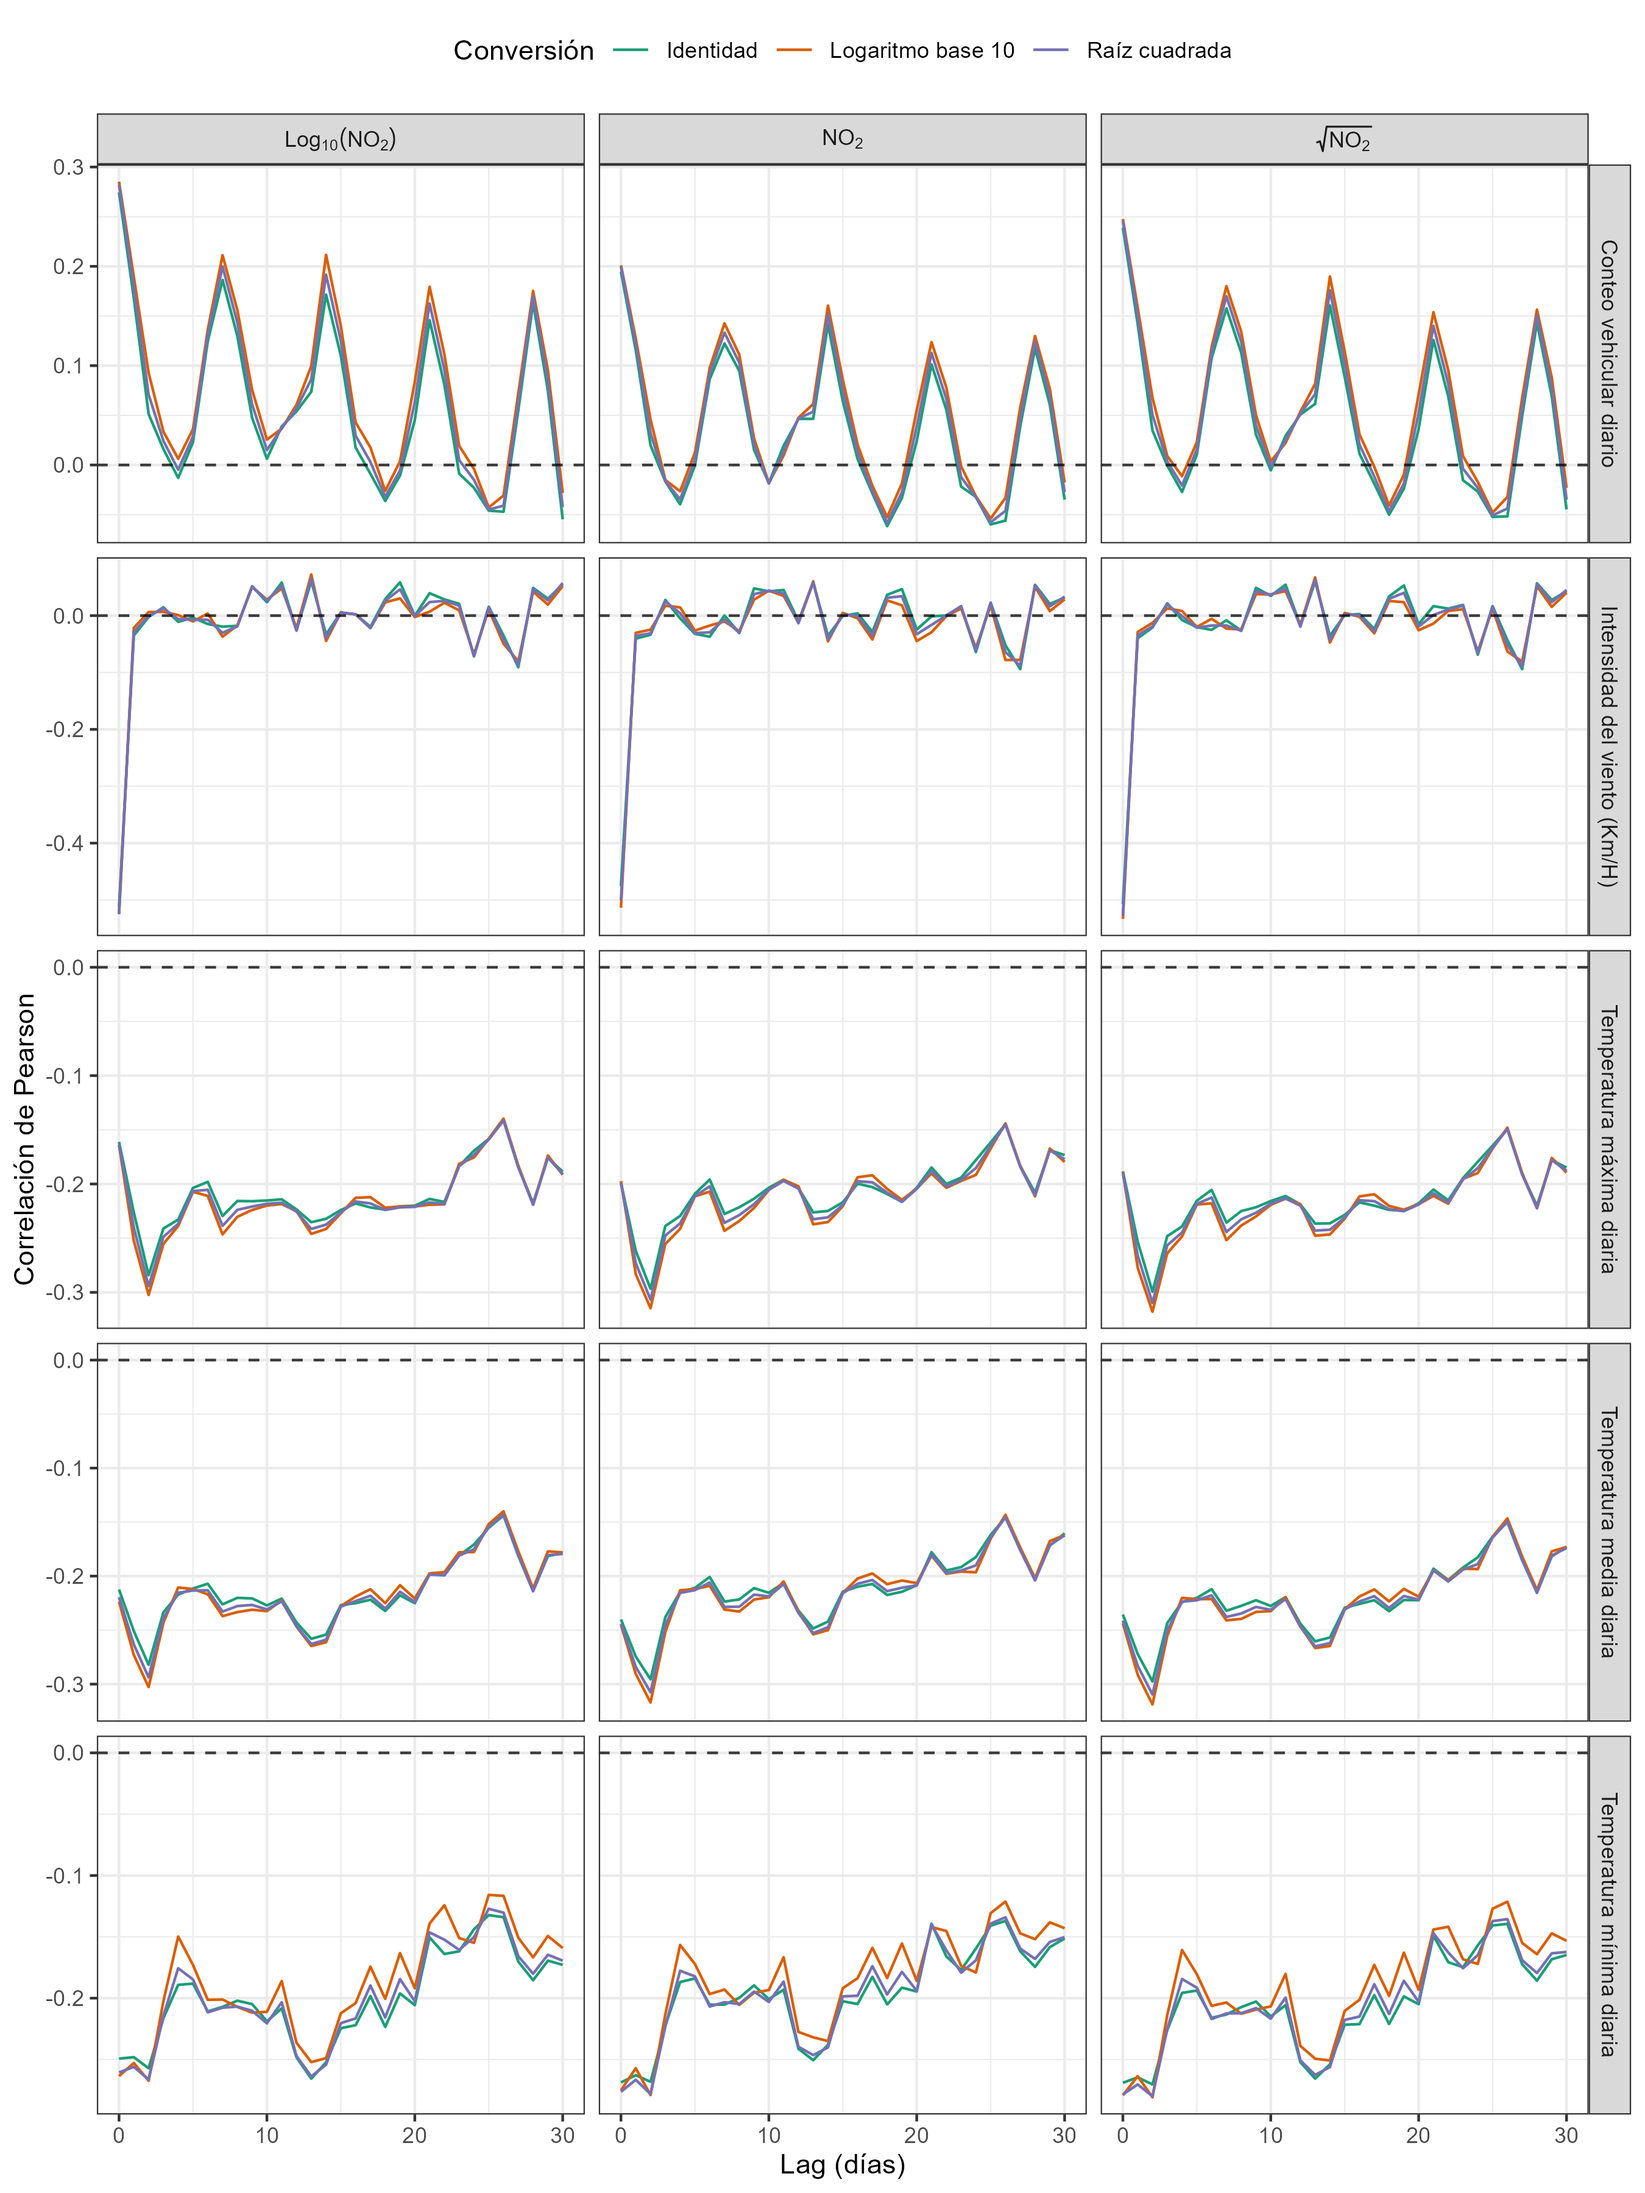
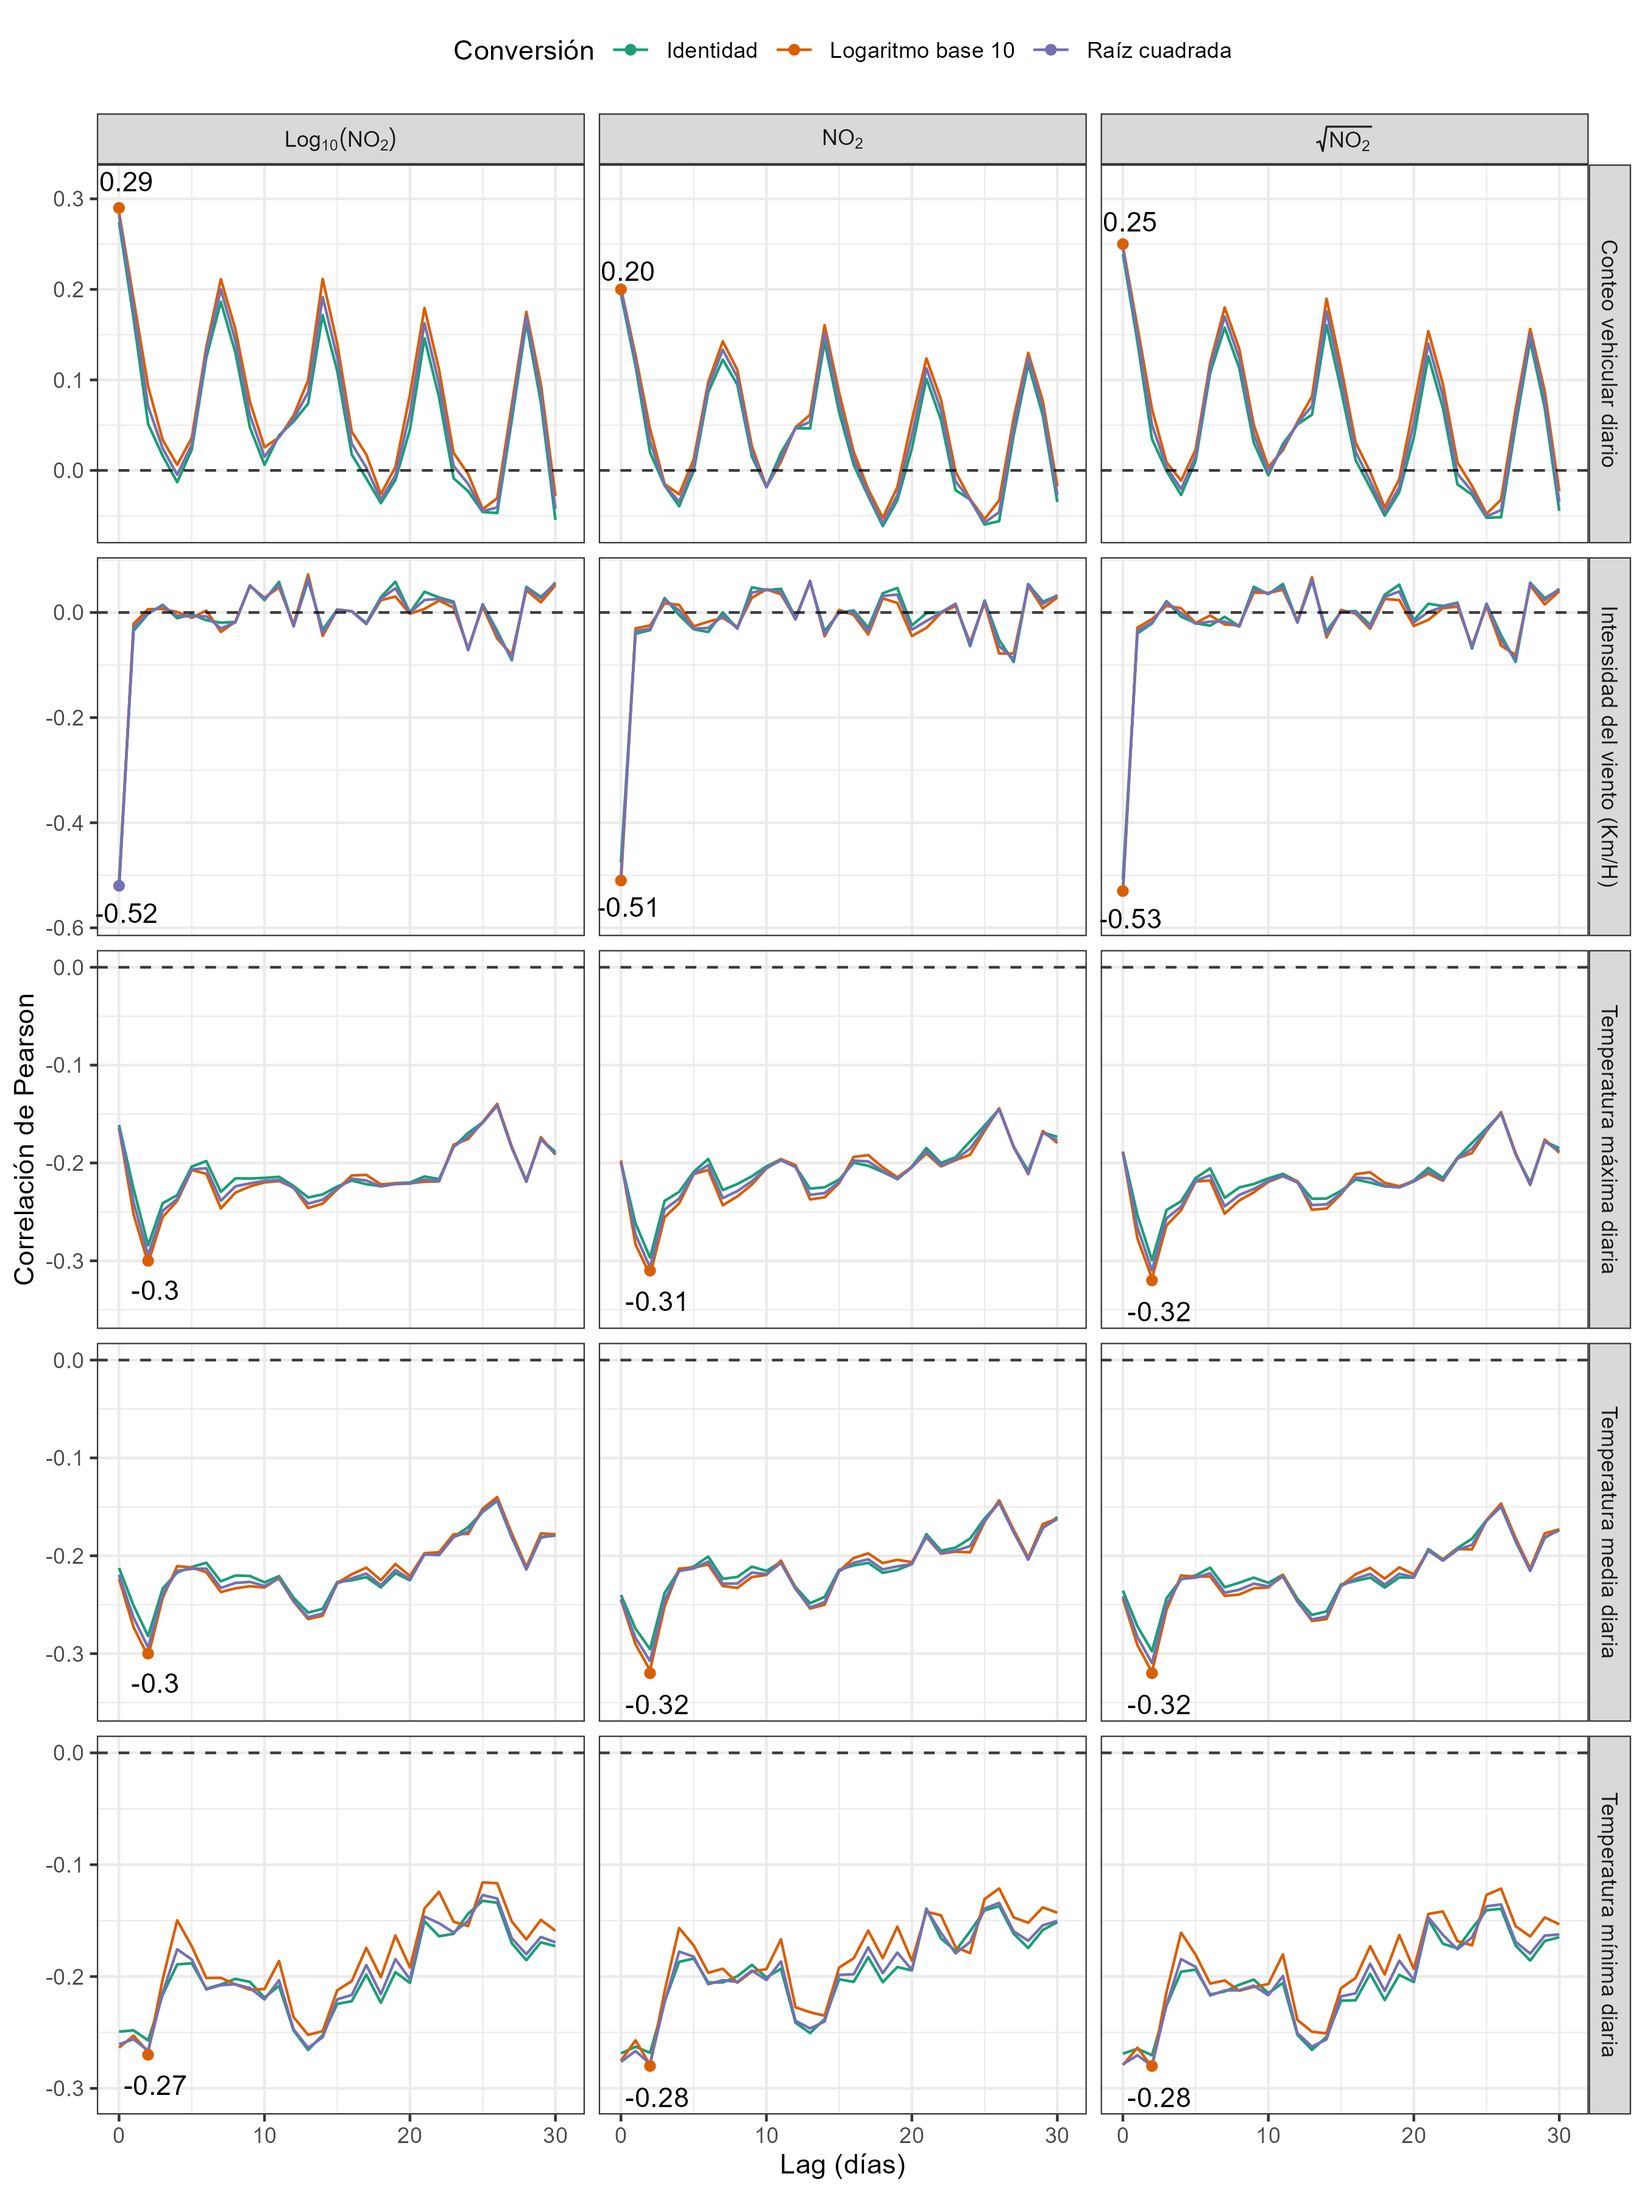
modificacion de grafico de correlaciones

diff --git a/Tablas/Descriptiva/correlaciones.tex b/Tablas/Descriptiva/correlaciones.tex
@@ -1,0 +1,21 @@
+% latex table generated in R 4.2.1 by xtable 1.8-4 package
+% Tue Jan  2 09:04:43 2024
+\begin{table}[ht]
+\centering
+\begin{tabular}{lrlll}
+  \hline
+variable & lag & conversion & $Log_{10}(NO_{2})$ & $\sqrt{NO_{2}}$ \\ 
+  \hline
+Conteo vehicular diario & 0.00 & Logaritmo base 10 & \textbf{0.285} & 0.248 \\ 
+  Conteo vehicular diario & 0.00 & Raíz cuadrada & 0.282 & 0.245 \\ 
+  Intensidad del viento (Km/H) & 0.00 & Logaritmo base 10 & -0.524 & \textbf{-0.533} \\ 
+  Intensidad del viento (Km/H) & 0.00 & Raíz cuadrada & -0.525 & -0.527 \\ 
+  Temperatura media diaria & 2.00 & Logaritmo base 10 & -0.303 & \textbf{-0.319} \\ 
+  Temperatura media diaria & 2.00 & Raíz cuadrada & -0.294 & -0.31 \\ 
+  Temperatura máxima diaria & 2.00 & Logaritmo base 10 & -0.302 & \textbf{-0.318} \\ 
+  Temperatura máxima diaria & 2.00 & Raíz cuadrada & -0.294 & -0.31 \\ 
+  Temperatura mínima diaria & 2.00 & Logaritmo base 10 & -0.267 & \textbf{-0.281} \\ 
+  Temperatura mínima diaria & 2.00 & Raíz cuadrada & -0.266 & -0.28 \\ 
+   \hline
+\end{tabular}
+\end{table}
